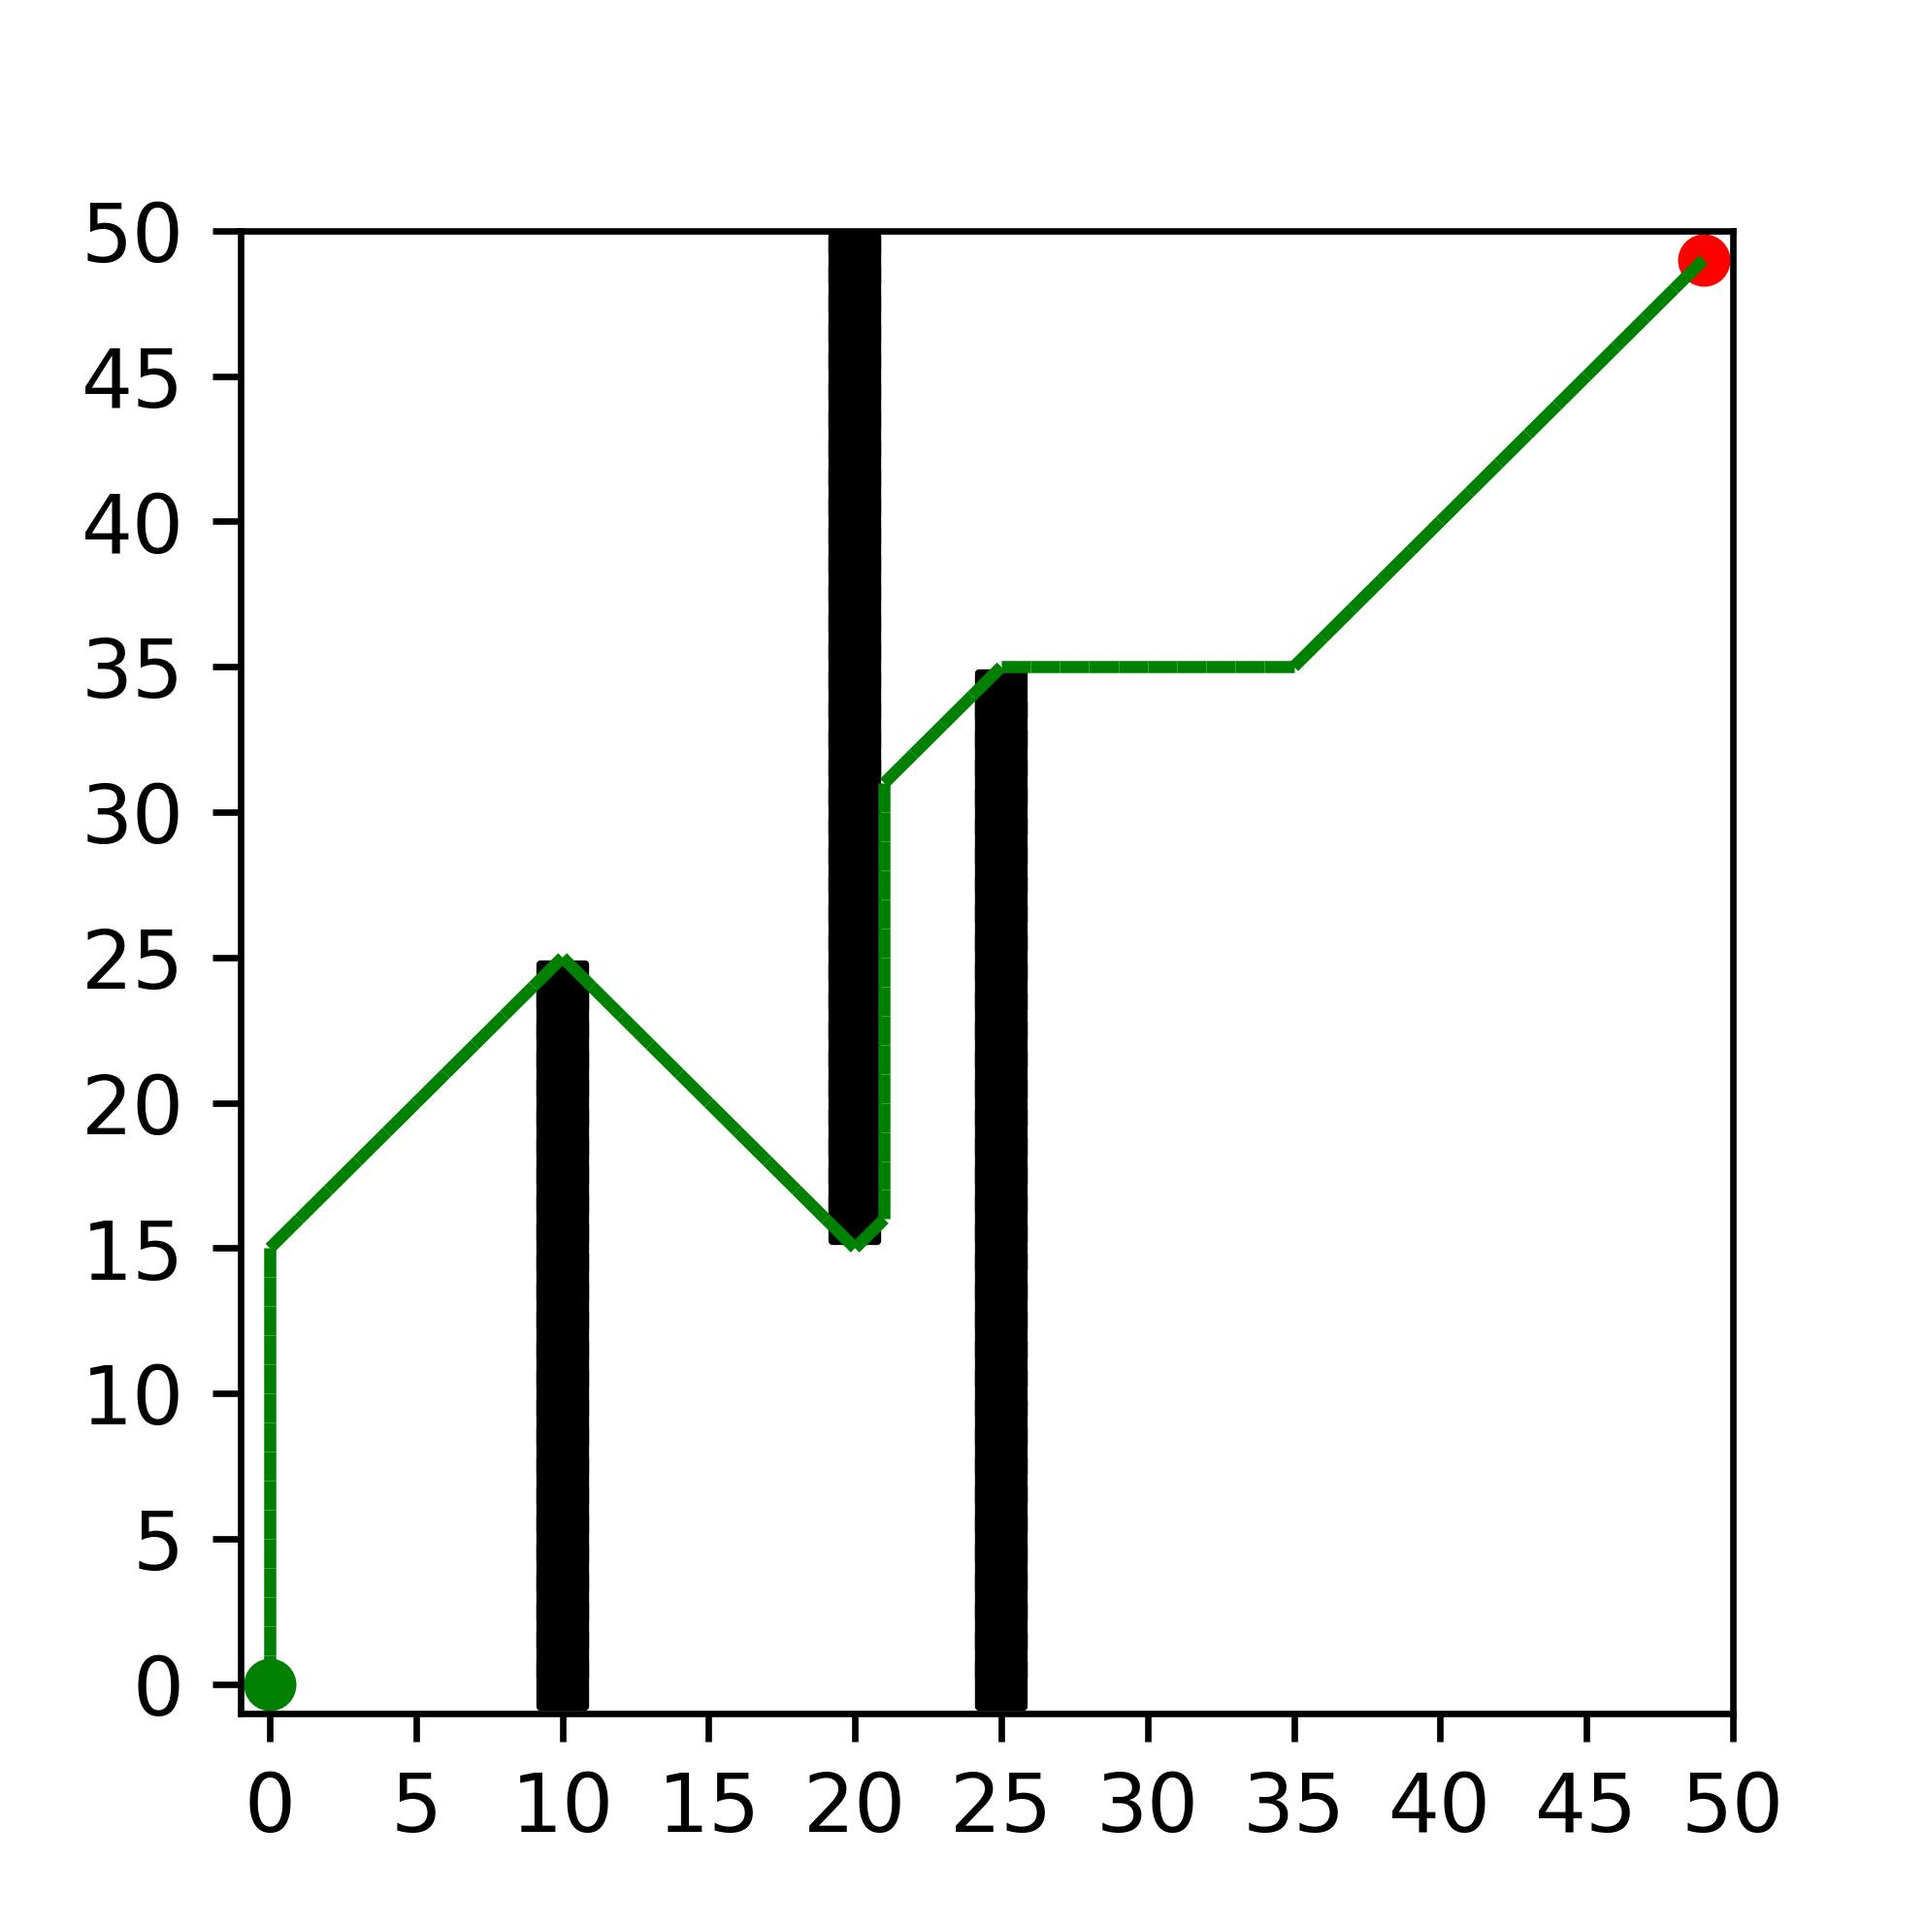
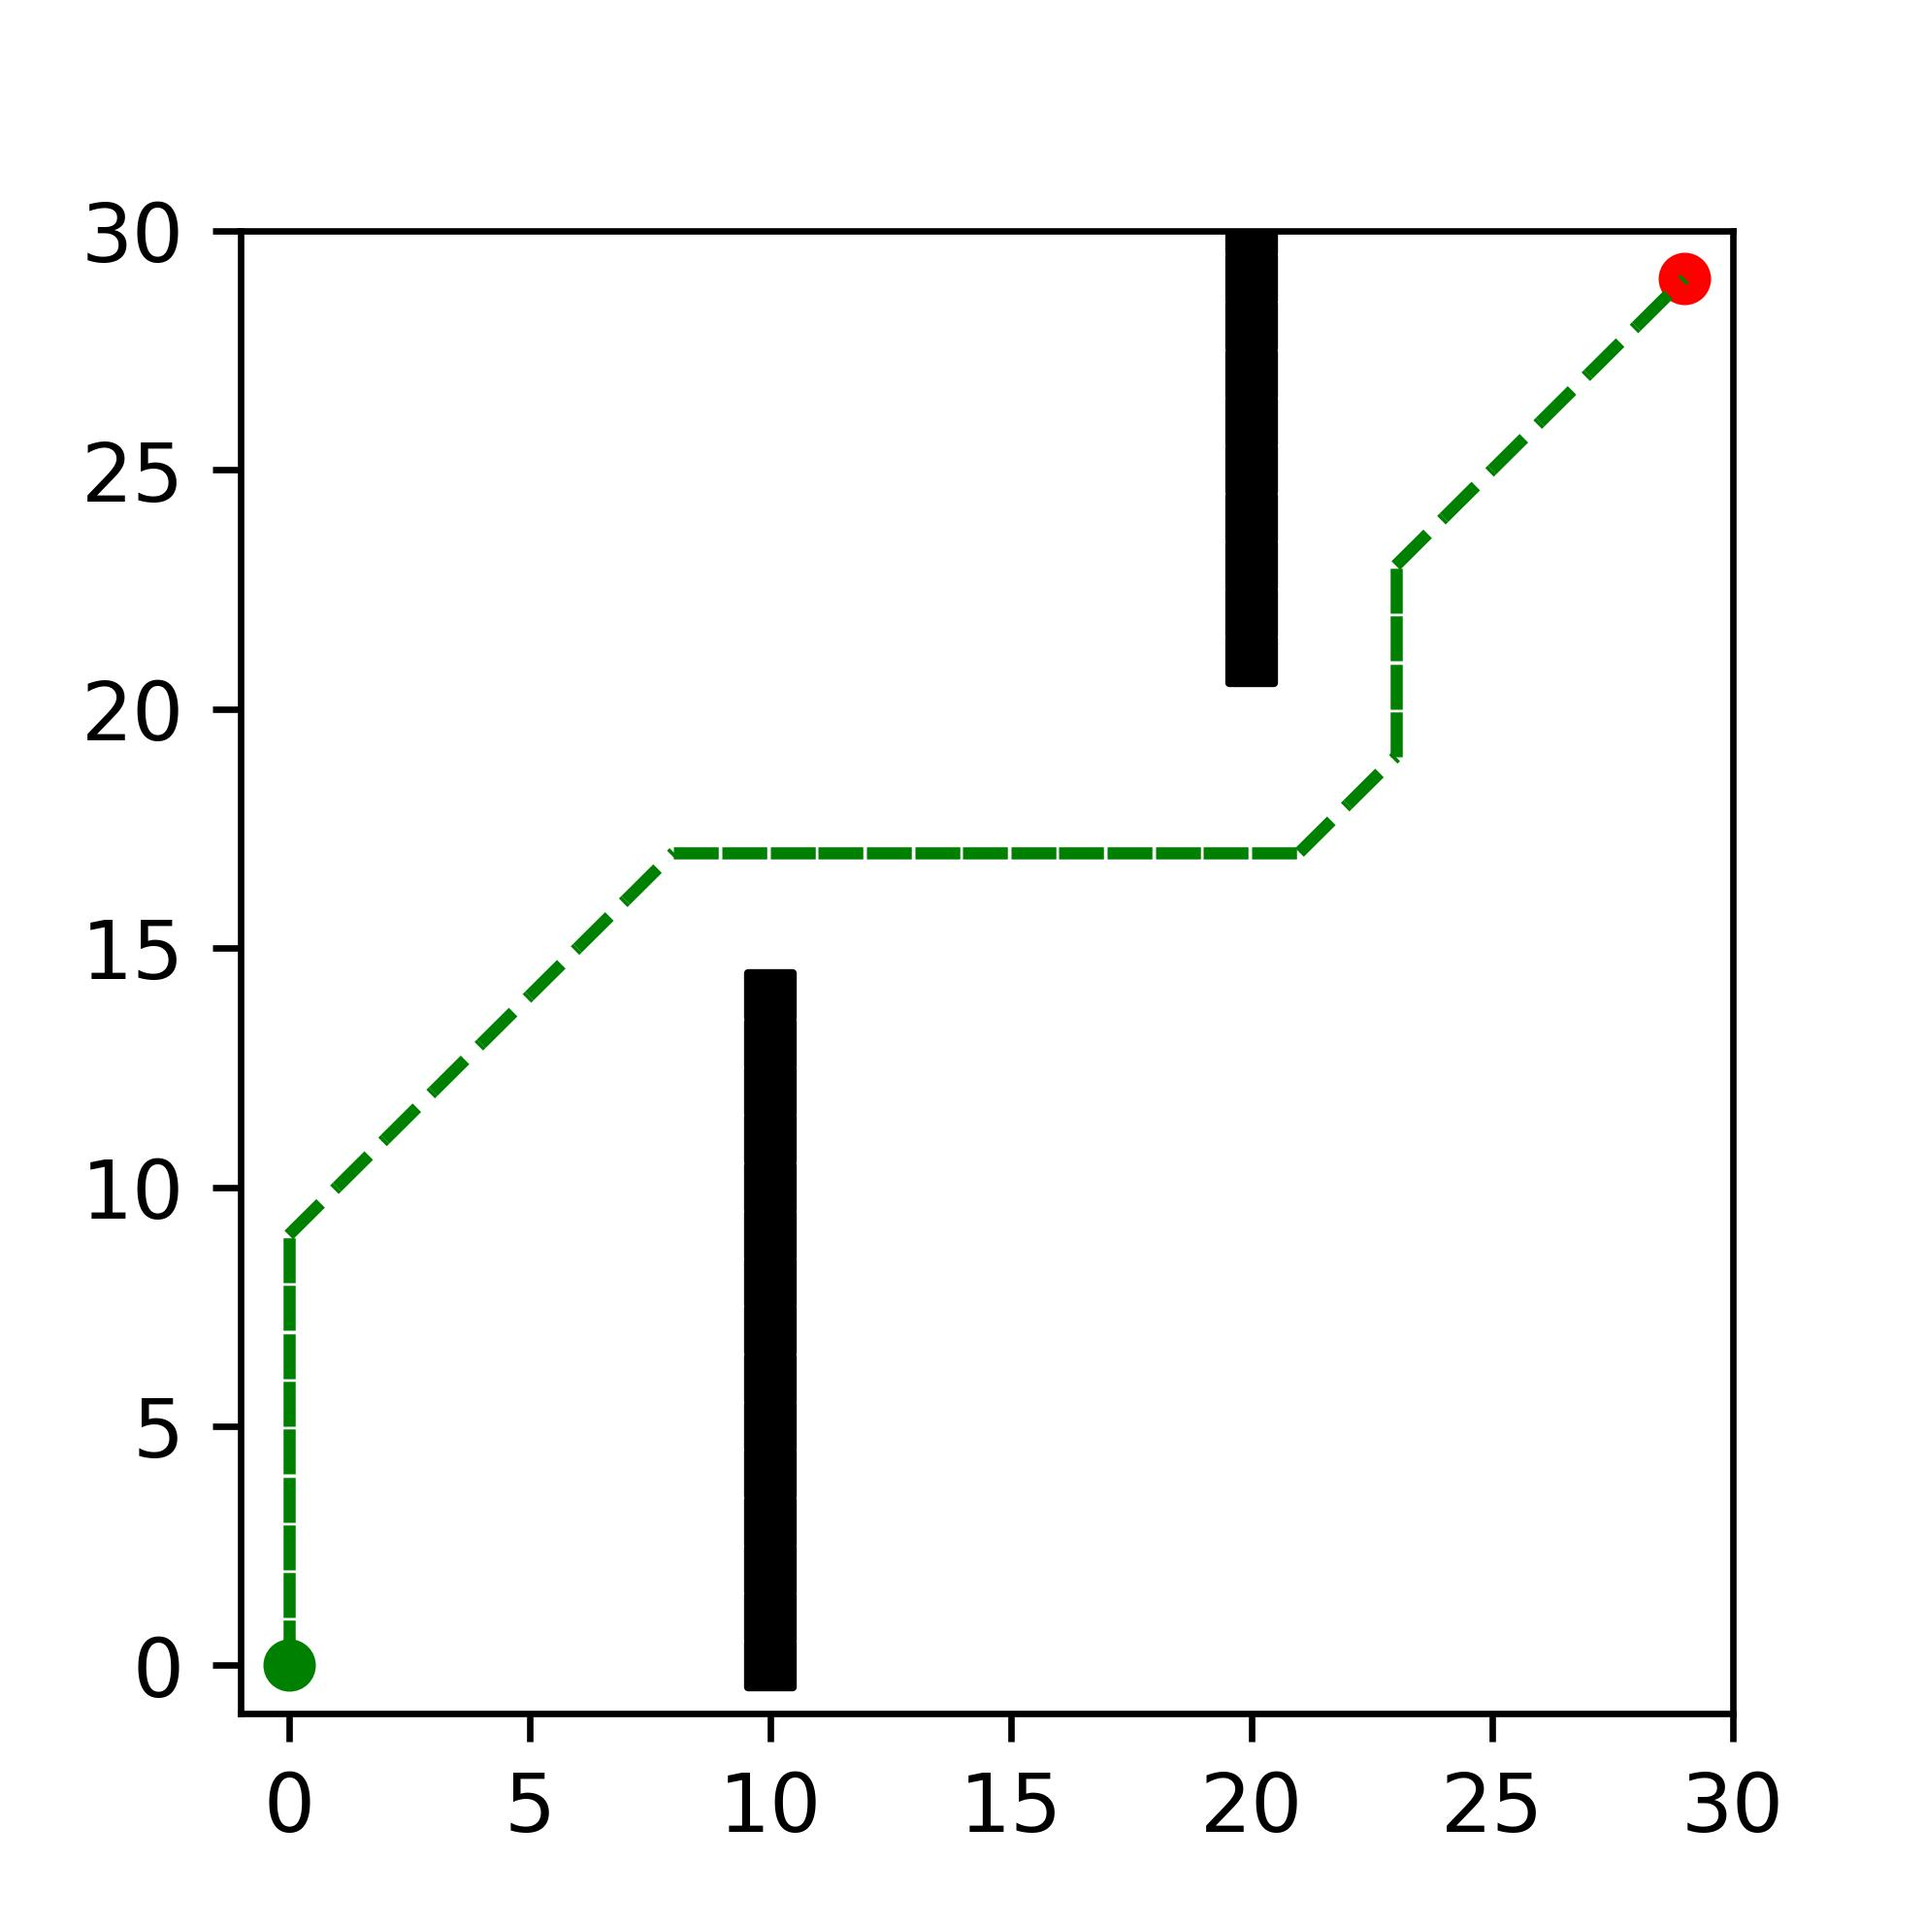
Sample Results

diff --git a/main.py b/main.py
@@ -67,7 +67,7 @@ if __name__ == "__main__":
     #     for value in row:
     #         print(value, end=" ")
     #     print()
-    time.sleep(10)
+    # time.sleep(10)
 
     while running:
 
@@ -77,8 +77,8 @@ if __name__ == "__main__":
                 running = False
 
         # Choose Action
-        # a_index = agent.policy[vehicle.rect.x//GRID_SIZE][vehicle.rect.y//GRID_SIZE]
-        # next_state = agent.action_result(a_index, agent.current_state)
+        a_index = agent.policy[vehicle.rect.x//GRID_SIZE][vehicle.rect.y//GRID_SIZE]
+        next_state = agent.action_result(a_index, agent.current_state)
         keys = pygame.key.get_pressed()
         if keys[pygame.K_LEFT]:
             a_index=2
@@ -88,8 +88,8 @@ if __name__ == "__main__":
             a_index=1#0
         elif keys[pygame.K_DOWN]:
             a_index=0#1
-        else:
-            a_index=-1
+        # else:
+        #     a_index=-1
 
         if a_index>-1:
             vehicle.update(a_index, grid) #env.step(action)
@@ -97,7 +97,7 @@ if __name__ == "__main__":
         new_observation, reward, done = vehicle.get_state(agent.stone_list, vehicle.rect, agent.area)
         # Render Game
         screen.fill(WHITE)
-        # vehicle.draw_path(screen)
+        vehicle.draw_path(screen)
         vehicle.draw_fov(screen, grid, obstacles)
         all_sprites.draw(screen)
       
@@ -108,12 +108,12 @@ if __name__ == "__main__":
             agent.reset(1)
             vehicle.reset()
 
-        print("vehicle.rect    : ",vehicle.rect.x, " , ",vehicle.rect.y)
-        print("vehicle.rect    : ",vehicle.rect.x//GRID_SIZE, " , ",vehicle.rect.y//GRID_SIZE)
-        print("unvisible area  : ",vehicle.unvisible_area)
-        print("raycast_list    : ",agent.raycast_list[vehicle.rect.x//GRID_SIZE][vehicle.rect.y//GRID_SIZE])
-        print("raycast_list    : ",agent.raycast_list[agent.current_state[0]][agent.current_state[1]])
-        print()
+        # print("vehicle.rect    : ",vehicle.rect.x, " , ",vehicle.rect.y)
+        # print("vehicle.rect    : ",vehicle.rect.x//GRID_SIZE, " , ",vehicle.rect.y//GRID_SIZE)
+        # print("unvisible area  : ",vehicle.unvisible_area)
+        # print("raycast_list    : ",agent.raycast_list[vehicle.rect.x//GRID_SIZE][vehicle.rect.y//GRID_SIZE])
+        # print("raycast_list    : ",agent.raycast_list[agent.current_state[0]][agent.current_state[1]])
+        # print()
         pygame.display.flip()
         clock.tick(10)
 

diff --git a/game.py b/game.py
@@ -266,7 +266,7 @@ class Vehicle(pygame.sprite.Sprite):
                     # cell = Cell(8,8)
                     # print("cell.rect.center: ",cell.rect.center)
                     hit_point = caster.cast_to_point([o.rect for o in obstacles], cell.rect.center)
-                    print(hit_point)
+                    # print(hit_point)
                     # time.sleep(1)
                     if hit_point:
                         cell.darken()
@@ -328,10 +328,10 @@ if __name__ == "__main__":
         # vehicle.draw_path(screen)
         all_sprites.draw(screen)
 
-        print("vehicle.rect    : ",vehicle.rect.x, " , ",vehicle.rect.y)
-        print("vehicle.rect    : ",vehicle.rect.x//GRID_SIZE, " , ",vehicle.rect.y//GRID_SIZE)
-        print("unvisible area  : ",vehicle.unvisible_area)
-        print()
+        # print("vehicle.rect    : ",vehicle.rect.x, " , ",vehicle.rect.y)
+        # print("vehicle.rect    : ",vehicle.rect.x//GRID_SIZE, " , ",vehicle.rect.y//GRID_SIZE)
+        # print("unvisible area  : ",vehicle.unvisible_area)
+        # print()
         pygame.display.flip()
         clock.tick(10)
 

diff --git a/agent_brain.py b/agent_brain.py
@@ -15,9 +15,9 @@ class Agent:
         self.C = []
         self.Y = []
         self.area = 1
-        self.alpha = 0.9
-        self.gamma = 0.7
-        self.epsilon0 = 1.1
+        self.alpha = 0.8#0.9
+        self.gamma = 0.5#0.7
+        self.epsilon0 = 10.3#5.1
         self.episodes = 5000
         self.success_episode = 0
         self.sum_reward_list = []
@@ -30,7 +30,7 @@ class Agent:
         stone_list_1 = [(10, i) for i in range(15)]
         stone_list_2 = [(20, self.n-i) for i in range(10)]
         stone_list_3 = [(25, i) for i in range(20)]
-        self.stone_list = stone_list_1 + stone_list_2 + stone_list_3
+        self.stone_list = stone_list_1 + stone_list_2 #+ stone_list_3
         self.action = ["up", "down", "left", "right","left_up","left_down","right_up","right_down"]
         self.q_table = [[[0 for j in range(len(self.world))] for i in range(len(self.world))] for k in range(len(self.action))]
         self.policy = [[0 for j in range(len(self.world))] for i in range(len(self.world))]
